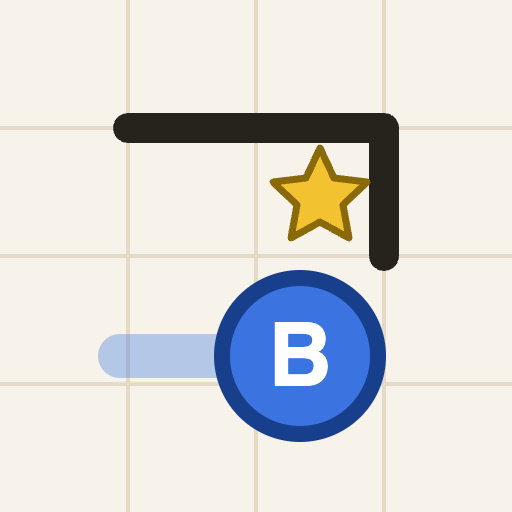
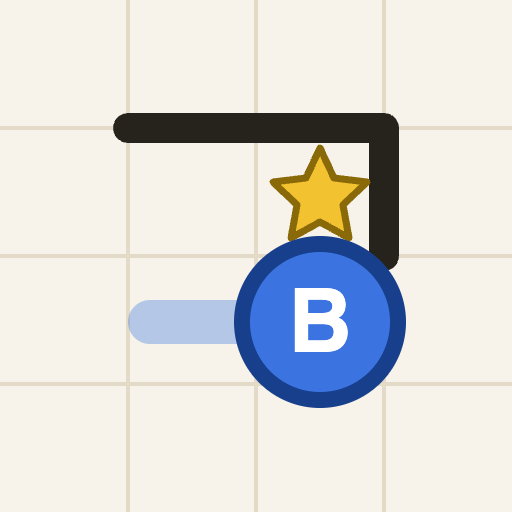
Phone UX: edge-to-edge board, one-screen layout, larger pieces, pinch/button zoom, forgiving robot taps

Changed region(s): [[0.1875, 0.4375, 0.8125, 0.875]]

diff --git a/ricochet-robots.html b/ricochet-robots.html
@@ -112,27 +112,36 @@ dialog .actions{display:flex;justify-content:flex-end;gap:8px;margin-top:14px}
   padding:10px;height:300px;overflow:auto;white-space:pre-wrap;margin:10px 0 0}
 #devDialog{width:600px}
 hr{border:none;border-top:1px solid var(--line);margin:12px 0}
+.zoombtn{display:none}
 @media (max-width:759px){
-  #app{flex-direction:column;align-items:center;gap:8px;
-    padding:max(8px,env(safe-area-inset-top)) max(8px,env(safe-area-inset-right)) max(14px,env(safe-area-inset-bottom)) max(8px,env(safe-area-inset-left))}
-  #side{width:100%;max-width:640px;gap:8px}
-  #side>.hdr{order:99}
-  .keys{display:none}
-  .touchhelp{display:block}
-  button{padding:10px;font-size:15px}
-  button kbd,.rbtn .num{display:none}
   html,body{overflow-x:hidden}
-  .rbtn{width:40px;height:40px;font-size:16px}
-  .robots{gap:7px}
-  .robotrow{flex-wrap:wrap;row-gap:10px}
-  .dpad{grid-template-columns:repeat(3,38px);grid-template-rows:repeat(2,38px)}
+  #app{display:grid;grid-template-columns:minmax(0,1fr) auto;gap:6px;align-items:stretch;
+    padding:max(6px,env(safe-area-inset-top)) 6px max(14px,env(safe-area-inset-bottom)) 6px}
+  #side{display:contents}
+  #side>*{grid-column:1/-1}
+  #side>.target-card{grid-column:1;grid-row:1;padding:5px 8px;gap:8px;min-width:0}
+  #side>.metrics{grid-column:2;grid-row:1;gap:4px}
+  #boardWrap{grid-column:1/-1;grid-row:2;margin:0 -6px;justify-self:center}
+  #board{border-radius:0;box-shadow:none}
+  .overlay{border-radius:0}
+  #side>.hdr{order:99;padding:0 4px}
+  #status{order:98;text-align:center}
+  .touchhelp{display:block;order:97}
+  .keys,.dpad,#tgtSub{display:none}
+  #tgtIcon{width:34px;height:34px;border-radius:8px}
+  #tgtName{font-size:14.5px;white-space:nowrap;overflow:hidden;text-overflow:ellipsis}
+  .metric{padding:3px 9px;border-radius:10px;min-width:54px}
+  .metric .lbl{font-size:9px}
+  .metric .val{font-size:17px;line-height:1.25}
+  .card{padding:8px}
+  button{padding:11px 6px;font-size:15px}
+  button kbd,.rbtn .num{display:none}
+  .btn-grid{grid-template-columns:repeat(4,1fr)}
+  .rbtn{width:46px;height:46px;font-size:18px}
+  .robots{gap:10px}
+  .zoombtn{display:block;margin-left:auto;padding:11px 12px}
   input,select{font-size:16px !important}
-  .card{padding:9px 10px}
-  .target-card{padding:7px 10px}
-  #tgtIcon{width:40px;height:40px}
-  .metric{padding:5px 10px}
-  .metric .val{font-size:19px}
-  .result-card{min-width:0;width:88%;padding:14px 12px}
+  .result-card{min-width:0;width:86%;padding:14px 12px}
   .rating{font-size:28px}
   dialog{padding:14px}
 }
@@ -229,6 +238,7 @@ hr{border:none;border-top:1px solid var(--line);margin:12px 0}
         <button class="down" data-dir="2" title="Down (↓ / S)">↓</button>
         <button class="right" data-dir="1" title="Right (→ / D)">→</button>
       </div>
+      <button id="zoomBtn" class="zoombtn">Zoom in</button>
     </div>
 
     <div class="card">
@@ -241,7 +251,7 @@ hr{border:none;border-top:1px solid var(--line);margin:12px 0}
     </div>
 
     <div id="status"></div>
-    <div class="touchhelp">Tap a robot, then swipe anywhere on the board to slide it.</div>
+    <div class="touchhelp">Tap a robot, then swipe anywhere on the board to slide it. Pinch with two fingers to zoom.</div>
     <div class="keys">
       <kbd>1</kbd>–<kbd>5</kbd> select · <kbd>←↑→↓</kbd>/<kbd>WASD</kbd> move · <kbd>Z</kbd> undo · <kbd>R</kbd> reset ·
       <kbd>H</kbd> hint · <kbd>N</kbd> next · <kbd>Space</kbd> start/pause · <kbd>P</kbd> preview stops
@@ -774,7 +784,7 @@ globalThis.RRCore = (function () {
     board: null, deck: [], robots: [], start: [], targetIdx: -1, solution: null, code: '',
     phase: 'loading', history: [], selected: 0, hintLevel: 0, revealed: false, recorded: false,
     timer: { acc: 0, since: 0, running: false }, paused: false, think: null, replay: null, result: null,
-    gen: 0, anims: new Map(), trails: [], cell: 38, margin: 8, dpr: 1, raf: false,
+    gen: 0, anims: new Map(), trails: [], cell: 38, margin: 8, dpr: 1, raf: false, mobile: false, view: { k: 1, x: 0, y: 0 },
   };
   const cv = $('board');
   const COARSE = !!(window.matchMedia && matchMedia('(pointer: coarse)').matches);
@@ -901,7 +911,7 @@ globalThis.RRCore = (function () {
   function beginRound(robots, t, sol) {
     S.start = robots.slice(); S.robots = robots.slice(); S.targetIdx = t; S.solution = sol;
     S.history = []; S.hintLevel = 0; S.revealed = false; S.recorded = false; S.result = null; S.replay = null;
-    S.anims.clear(); S.trails = []; S.paused = false;
+    S.anims.clear(); S.trails = []; S.paused = false; S.view = { k: 1, x: 0, y: 0 }; clampView();
     const tg = target(); S.selected = tg.color < 4 ? tg.color : 0;
     S.code = C.encodeCode(S.board.seed, S.start, t, S.board.gen); S.roundsOnBoard++;
     timerReset(); timerStart(); setLoading(null);
@@ -934,7 +944,7 @@ globalThis.RRCore = (function () {
     const from = S.robots[i], to = C.slide(S.board.stops, S.robots, i, d);
     if (to === from) { S.anims.set(i, { bump: d, t0: performance.now(), dur: 140 }); updateHUD(); render(); return; }
     S.history.push({ robot: i, from, to, dir: d });
-    S.robots[i] = to; animate(i, from, to);
+    S.robots[i] = to; animate(i, from, to); ensureVisible(to);
     if (isGoalMove(i, to)) { S.phase = 'solved'; timerStop(); const g = S.gen; setTimeout(() => { if (g === S.gen && S.phase === 'solved') finishRound(); }, 180); }
     updateHUD();
   }
@@ -1181,6 +1191,28 @@ globalThis.RRCore = (function () {
     if (tg) drawTargetSymbol(ctx, tg, 48, 50, 26, 1);
   }
 
+  // ---- zoom / pan (board is drawn through S.view; k = scale, x/y = offset in CSS px)
+  const boardPx = () => S.cell * 16 + S.margin * 2;
+  function clampView() {
+    const V = S.view, W = boardPx();
+    V.k = Math.max(1, Math.min(3, V.k));
+    V.x = Math.min(0, Math.max(W - W * V.k, V.x)); V.y = Math.min(0, Math.max(W - W * V.k, V.y));
+    $('zoomBtn').textContent = V.k > 1.02 ? 'Zoom out' : 'Zoom in';
+  }
+  function resetView() { S.view = { k: 1, x: 0, y: 0 }; clampView(); render(); }
+  function zoomAt(k, p) {
+    const W = boardPx(), px = S.margin + ((p & 15) + 0.5) * S.cell, py = S.margin + ((p >> 4) + 0.5) * S.cell;
+    S.view = { k, x: W / 2 - px * k, y: W / 2 - py * k }; clampView(); render();
+  }
+  function ensureVisible(p) {   // when zoomed in, pan just enough to keep a cell on screen
+    const V = S.view; if (V.k <= 1.02) return;
+    const W = boardPx(), pad = S.cell * V.k * 0.9;
+    const sx = V.x + (S.margin + ((p & 15) + 0.5) * S.cell) * V.k, sy = V.y + (S.margin + ((p >> 4) + 0.5) * S.cell) * V.k;
+    if (sx < pad) V.x += pad - sx; else if (sx > W - pad) V.x -= sx - (W - pad);
+    if (sy < pad) V.y += pad - sy; else if (sy > W - pad) V.y -= sy - (W - pad);
+    clampView();
+  }
+
   const ease = t => 1 - Math.pow(1 - t, 3);
   function render() { if (!S.raf) { S.raf = true; requestAnimationFrame(draw); } }
 
@@ -1191,7 +1223,9 @@ globalThis.RRCore = (function () {
     let again = false;
     ctx.setTransform(S.dpr, 0, 0, S.dpr, 0, 0);
     ctx.clearRect(0, 0, W, W);
-    ctx.fillStyle = '#e4dccb'; roundRect(ctx, 0, 0, W, W, 12); ctx.fill();
+    const V = S.view, small = cs < 30;   // phone-sized cells: draw robots and targets larger
+    ctx.setTransform(S.dpr * V.k, 0, 0, S.dpr * V.k, S.dpr * V.x, S.dpr * V.y);
+    ctx.fillStyle = '#e4dccb'; roundRect(ctx, 0, 0, W, W, S.mobile ? 0 : 12); ctx.fill();
     ctx.fillStyle = '#f7f3ea'; ctx.fillRect(M, M, cs * 16, cs * 16);
     if (!S.board) return;
     const B = S.board, cx = p => M + ((p & 15) + 0.5) * cs, cy = p => M + ((p >> 4) + 0.5) * cs;
@@ -1204,13 +1238,13 @@ globalThis.RRCore = (function () {
     const live = S.phase !== 'loading' && S.targetIdx >= 0;
     const tg = live ? target() : null;
     // targets
-    B.targets.forEach((t, k) => { if (k !== S.targetIdx || !live) drawTargetSymbol(ctx, t, cx(t.pos), cy(t.pos), cs * 0.19, 0.7); });
+    B.targets.forEach((t, k) => { if (k !== S.targetIdx || !live) drawTargetSymbol(ctx, t, cx(t.pos), cy(t.pos), cs * (small ? 0.25 : 0.19), small ? 0.8 : 0.7); });
     if (tg) {
       const x = M + (tg.pos & 15) * cs, y = M + (tg.pos >> 4) * cs;
       const col = tg.color === 4 ? '#7a5cd6' : ROBOTS[tg.color].fill;
       ctx.save(); ctx.globalAlpha = 0.22; ctx.fillStyle = col; ctx.fillRect(x, y, cs, cs); ctx.restore();
       ctx.save(); ctx.strokeStyle = col; ctx.lineWidth = Math.max(2, cs * 0.07); roundRect(ctx, x + 3, y + 3, cs - 6, cs - 6, 5); ctx.stroke(); ctx.restore();
-      drawTargetSymbol(ctx, tg, cx(tg.pos), cy(tg.pos), cs * 0.33, 1);
+      drawTargetSymbol(ctx, tg, cx(tg.pos), cy(tg.pos), cs * (small ? 0.37 : 0.33), 1);
     }
     // centre block
     ctx.fillStyle = '#38342d'; roundRect(ctx, M + 7 * cs + 1, M + 7 * cs + 1, 2 * cs - 2, 2 * cs - 2, 6); ctx.fill();
@@ -1264,7 +1298,7 @@ globalThis.RRCore = (function () {
         else { const e = ease(k); fx = (an.from & 15) + ((an.to & 15) - (an.from & 15)) * e; fy = (an.from >> 4) + ((an.to >> 4) - (an.from >> 4)) * e; }
         if (k >= 1) S.anims.delete(i); else again = true;
       }
-      const x = M + (fx + 0.5) * cs, y = M + (fy + 0.5) * cs, r = cs * 0.36, R = ROBOTS[i];
+      const x = M + (fx + 0.5) * cs, y = M + (fy + 0.5) * cs, r = cs * (small ? 0.42 : 0.36), R = ROBOTS[i];
       ctx.save();
       if (i === S.selected && S.phase !== 'loading') {
         ctx.shadowColor = R.fill; ctx.shadowBlur = cs * 0.5;
@@ -1274,7 +1308,7 @@ globalThis.RRCore = (function () {
       ctx.beginPath(); ctx.arc(x, y, r, 0, Math.PI * 2); ctx.fillStyle = R.fill; ctx.fill();
       ctx.shadowColor = 'transparent';
       ctx.lineWidth = Math.max(2, cs * 0.07); ctx.strokeStyle = R.dark; ctx.stroke();
-      ctx.fillStyle = R.text; ctx.font = '700 ' + Math.round(cs * 0.38) + 'px -apple-system,BlinkMacSystemFont,system-ui,sans-serif';
+      ctx.fillStyle = R.text; ctx.font = '700 ' + Math.round(cs * (small ? 0.48 : 0.38)) + 'px -apple-system,BlinkMacSystemFont,system-ui,sans-serif';
       ctx.textAlign = 'center'; ctx.textBaseline = 'middle'; ctx.fillText(R.letter, x, y + cs * 0.02);
       ctx.restore();
     }
@@ -1284,10 +1318,12 @@ globalThis.RRCore = (function () {
   function layout() {
     const availH = window.innerHeight - 32, availW = window.innerWidth - 32 - 330 - 20;
     const mobile = window.innerWidth < 760;   // stacked layout: board takes the full width
-    const size = mobile ? Math.max(240, Math.min(640, window.innerWidth - 16, window.innerHeight - 16))
+    const size = mobile ? Math.max(240, Math.min(window.innerWidth, window.innerHeight - 16))   // edge to edge
                         : Math.max(320, Math.min(640, availH, availW));
-    S.cell = Math.floor((size - 10) / 16);
-    S.margin = Math.floor((size - S.cell * 16) / 2);
+    S.mobile = mobile;
+    if (mobile) { S.margin = 3; S.cell = (size - 6) / 16; }
+    else { S.cell = Math.floor((size - 10) / 16); S.margin = Math.floor((size - S.cell * 16) / 2); }
+    S.view = { k: 1, x: 0, y: 0 }; clampView();
     const px = S.cell * 16 + S.margin * 2;
     S.dpr = window.devicePixelRatio || 1;
     cv.style.width = cv.style.height = px + 'px';
@@ -1299,25 +1335,57 @@ globalThis.RRCore = (function () {
   // ---------------- input ----------------
   // Tap a robot to select it; swipe/drag anywhere on the board to slide the selected robot
   // (a swipe that starts on a robot selects it first). Tapping a cell in line with the robot also moves it.
-  let ptr = null;
-  function cellAt(e) {
+  let ptr = null, pinch = null; const pts = new Map();
+  function boardPt(e) {   // pointer position in unzoomed board pixels
     const rect = cv.getBoundingClientRect();
-    const x = Math.floor((e.clientX - rect.left - S.margin) / S.cell), y = Math.floor((e.clientY - rect.top - S.margin) / S.cell);
+    return { x: (e.clientX - rect.left - S.view.x) / S.view.k, y: (e.clientY - rect.top - S.view.y) / S.view.k };
+  }
+  function cellOf(pt) {
+    const x = Math.floor((pt.x - S.margin) / S.cell), y = Math.floor((pt.y - S.margin) / S.cell);
     return (x < 0 || x > 15 || y < 0 || y > 15) ? -1 : y * 16 + x;
   }
+  function pinchState() {
+    const rect = cv.getBoundingClientRect(), [a, b] = [...pts.values()];
+    return { d: Math.max(1, Math.hypot(a.x - b.x, a.y - b.y)), mx: (a.x + b.x) / 2 - rect.left, my: (a.y + b.y) / 2 - rect.top };
+  }
   cv.addEventListener('pointerdown', e => {
-    if (!S.board || S.phase === 'loading' || S.paused) return;
-    const cell = cellAt(e);
-    ptr = { x: e.clientX, y: e.clientY, cell, hitRobot: false };
+    pts.set(e.pointerId, { x: e.clientX, y: e.clientY });
     try { cv.setPointerCapture(e.pointerId); } catch (err) { /* not capturable */ }
-    const hit = cell >= 0 && S.phase !== 'replay' ? S.robots.indexOf(cell) : -1;
+    if (pts.size === 2) {   // second finger: start pinch-zoom / two-finger pan
+      ptr = null; const p = pinchState();
+      pinch = { d: p.d, bx: (p.mx - S.view.x) / S.view.k, by: (p.my - S.view.y) / S.view.k, k: S.view.k };
+      return;
+    }
+    if (pts.size > 2 || !S.board || S.phase === 'loading' || S.paused) return;
+    const pt = boardPt(e), cell = cellOf(pt);
+    ptr = { x: e.clientX, y: e.clientY, cell, hitRobot: false };
+    if (S.phase === 'replay') return;
+    let hit = cell >= 0 ? S.robots.indexOf(cell) : -1;
+    if (hit < 0 && S.cell * S.view.k < 30) {   // small cells: a touch near a robot counts as touching it
+      let best = 0.95;
+      S.robots.forEach((r, i) => {
+        const d = Math.hypot(pt.x - (S.margin + ((r & 15) + 0.5) * S.cell), pt.y - (S.margin + ((r >> 4) + 0.5) * S.cell)) / S.cell;
+        if (d < best) { best = d; hit = i; }
+      });
+    }
     if (hit >= 0) { S.selected = hit; ptr.hitRobot = true; updateHUD(); render(); }
   });
-  cv.addEventListener('pointercancel', () => { ptr = null; });
-  cv.addEventListener('pointerup', e => {
+  cv.addEventListener('pointermove', e => {
+    if (!pts.has(e.pointerId)) return;
+    pts.set(e.pointerId, { x: e.clientX, y: e.clientY });
+    if (!pinch || pts.size < 2) return;
+    const p = pinchState(), V = S.view;
+    V.k = Math.max(1, Math.min(3, pinch.k * p.d / pinch.d));
+    V.x = p.mx - pinch.bx * V.k; V.y = p.my - pinch.by * V.k;   // keep the pinched point under the fingers
+    clampView(); render();
+  });
+  const pointerEnd = (e, cancelled) => {
+    pts.delete(e.pointerId);
+    if (pinch) { if (pts.size === 0) { pinch = null; if (S.view.k < 1.08) resetView(); } ptr = null; return; }
     if (!ptr) return;
     const p = ptr, dx = e.clientX - p.x, dy = e.clientY - p.y; ptr = null;
-    if (Math.hypot(dx, dy) >= Math.max(14, S.cell * 0.5)) {
+    if (cancelled) return;
+    if (Math.hypot(dx, dy) >= Math.max(14, Math.min(S.cell * S.view.k * 0.5, 22))) {
       const d = Math.abs(dx) > Math.abs(dy) ? (dx > 0 ? 1 : 3) : (dy > 0 ? 2 : 0);
       if (S.phase === 'replay') { if (d === 1) replayStep(1); else if (d === 3) replayStep(-1); }
       else move(S.selected, d);
@@ -1328,7 +1396,10 @@ globalThis.RRCore = (function () {
     const x = p.cell & 15, y = p.cell >> 4, rx = r & 15, ry = r >> 4;
     if (x === rx) move(S.selected, y < ry ? 0 : 2);
     else if (y === ry) move(S.selected, x > rx ? 1 : 3);
-  });
+  };
+  cv.addEventListener('pointerup', e => pointerEnd(e, false));
+  cv.addEventListener('pointercancel', e => pointerEnd(e, true));
+  $('zoomBtn').onclick = () => { if (S.view.k > 1.02) resetView(); else zoomAt(1.8, S.robots[S.selected] == null ? 136 : S.robots[S.selected]); };
 
   const KEY_DIR = { arrowup: 0, arrowright: 1, arrowdown: 2, arrowleft: 3, w: 0, d: 1, s: 2, a: 3 };
   document.addEventListener('keydown', e => {

diff --git a/sw.js b/sw.js
@@ -1,7 +1,7 @@
 // Offline support: everything is cached on first visit, then served from the cache
 // (and refreshed in the background when a connection is available).
 // Bump CACHE when shipping a new version.
-const CACHE = 'slidebots-v2';
+const CACHE = 'slidebots-v3';
 const ASSETS = ['./', 'index.html', 'ricochet-robots.html', 'manifest.webmanifest', 'icon-180.png', 'icon-192.png', 'icon-512.png'];
 
 self.addEventListener('install', e => {
